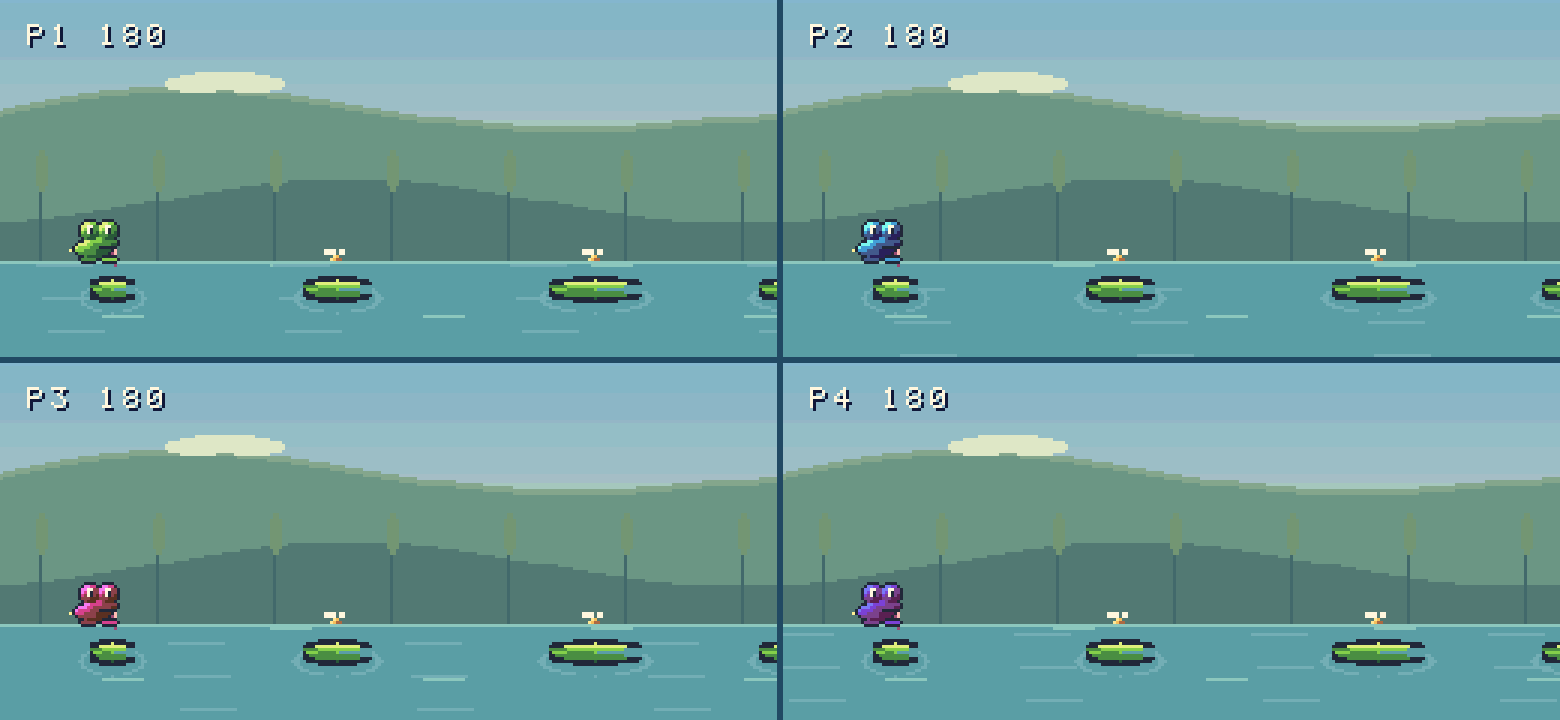
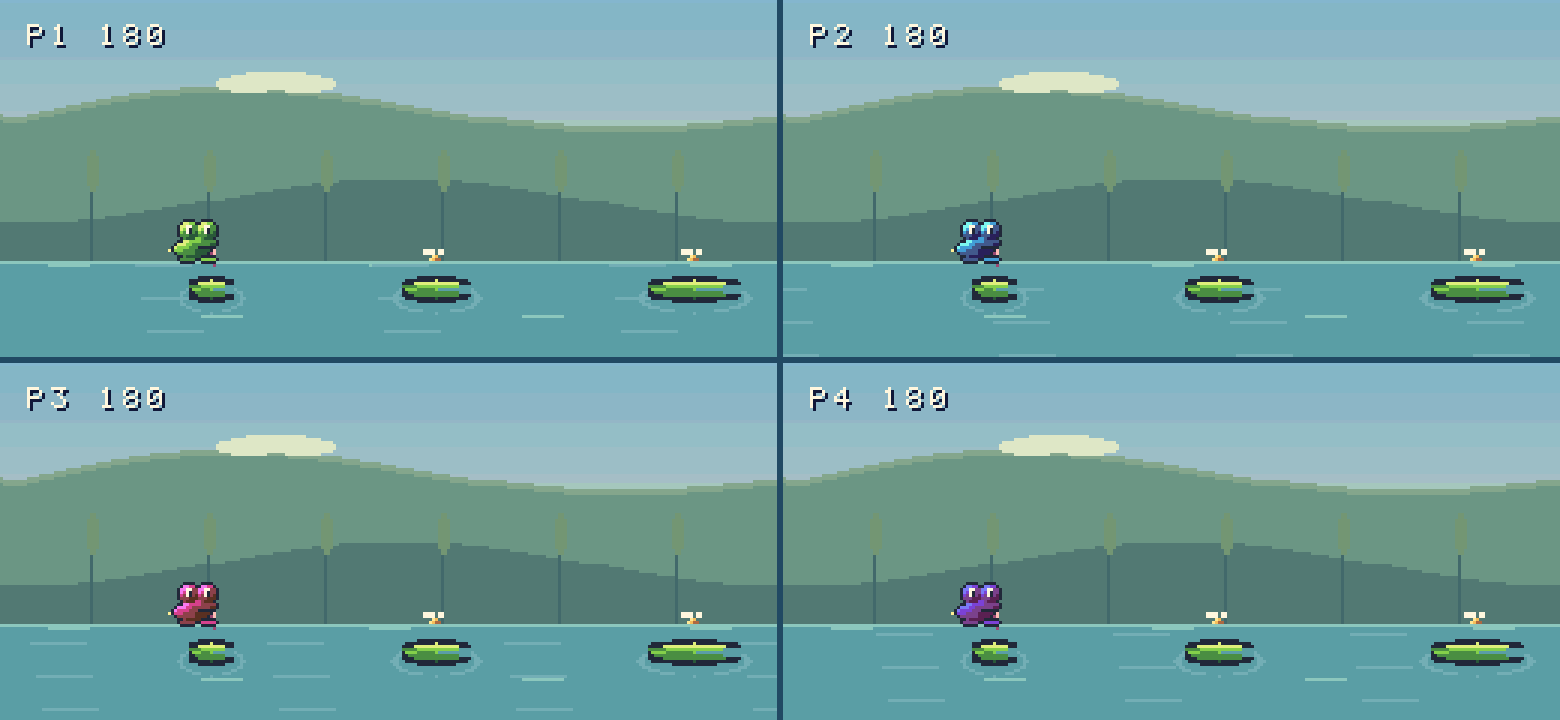
Wide view 1/3 left: frogreach
The owner's decision: in widescreen the frog sat too far left before a long empty
stretch. A third of each view's extra width is now shown behind its frog, two thirds
ahead: each camera starts view_left() px further left, WIDE_LEFT of the view's columns
past those it has at 320 (game.h: a full view 36 at 427, 67 at 520, 80 at 560; a half
view a third of its own extra columns; 0 at 320), so the frog sits that much further
right; the stage origin and the UI are unchanged (centred).
- The pond behind is drawn: the pads already crossed (two more behind the frog), the
  water and the reeds (floor divisions for a camera left of 0), and on the title the
  pond behind the first pad. The split views (2 players top/bottom, 3-4 panels) keep
  their own cameras with their own third.
- The world, the course, the physics, the scoring and the start distance are unchanged:
  the logs at 320, 427 and 520 are identical to before; 320 is byte-identical (300
  dense pictures and 4 logs compared).
- tests/wide_test.sh: the view check (--opt view=1) asserts the third on the left, the
  frog's screen x (that of 320 plus the third) and the next pad's distance on the
  screen (that of 320) at 427, 520 and 560, on the title, at the start, in a run and
  in P1's view of a 2-player game.
- Screenshots at 427 and 520 re-rendered; DESIGN.md says so.

diff --git a/games/frogreach/src/draw.c b/games/frogreach/src/draw.c
@@ -1,6 +1,7 @@
 /* Frog Reach: swamp, lily pads and tongue lines and independent split-screen cameras.
- * Widescreen (DESIGN.md "Widescreen"): a crossing seen from the side, so the swamp is revealed wider, to the right
- * (the stage origin stays 0): each camera keeps its frog where it was and shows more pads ahead, drawn with their
+ * Widescreen (DESIGN.md "Widescreen"): a crossing seen from the side, so the swamp is revealed wider: a third of each
+ * view's extra width behind its frog, two thirds ahead (the stage origin stays 0; each camera starts view_left() px
+ * further left, so the frog sits that much further right): the pads behind are drawn, the pads ahead with their
  * flies as far as the view goes (the same course: perch_pos). The views split the whole width (2 players: top and
  * bottom, 3: a top half and two lower panels, 4: quadrants); a panel is compact (the 16-px frog, the half zoom) when it
  * is narrower than 3/4 of the screen, as at 320. The scenery maps are 128 tiles wide: the reeds' panorama goes on
@@ -72,6 +73,10 @@ static int fit_col(int ux,int cols,int n) {
 static int compact(const rs_viewport *vp) { return vp->w*RS_SCREEN_W<240*rs_screen_width(); }
 static int zoom_x(const rs_viewport *vp) { return compact(vp)?128:256; }
 static int zoom_y(const rs_viewport *vp) { return vp->h<200?128:256; }
+/* widescreen: the columns a view shows behind its frog, a third of its extra width (its width less the one it has at
+ * 320: 320 for a full view, 159 for a half); 0 at 320 */
+static int view_left(const rs_viewport *vp) { return WIDE_LEFT(vp->w-vp->w*RS_SCREEN_W/rs_screen_width()); }
+static int p1_drawn_x=-999,p1_view_left;   /* tests (draw_view_log): P1's sprite centre on the screen, as drawn */
 static int sx(const view *v,const rs_viewport *vp,int x) { return (x-v->cx)*zoom_x(vp)/256; }
 static int sy(const view *v,const rs_viewport *vp,int y) { return (y-v->cy)*zoom_y(vp)/256; }
 static void spr(int id,int x,int y,int prio,int pal,const rs_viewport *vp) {
@@ -86,7 +91,7 @@ static int hero_frame(const hero *h,int t) {
  return SPR_HERO_IDLE+(t/8)%2;
 }
 static void background(const view *v,rs_viewport *vp) {
- int xoff=v->cx/4,fx=floor8(xoff),dx=xoff-fx*8;
+ int xoff=v->cx>=0?v->cx/4:-((3-v->cx)/4),fx=floor8(xoff),dx=xoff-fx*8;
  int cols=(vp->w+dx+7)/8,rows=(vp->h+7)/8;
  for(int r=0;r<rows;r++) for(int c=0;c<cols;c++) {
   int yy=floor8(r*8-(sy(v,vp,180)-64));
@@ -125,7 +130,8 @@ static void web(const world *w,int player,const view *v,const rs_viewport *vp,in
   else if(y%17==3 && (wx-w->t/7-y*3)%107<14)color=10;
   pixel(pixels,x,y,color,vp);
  }
- for(int id=h->anchor-1;id<=h->anchor+3 || (id<=h->anchor+16 && pad_seen(w,id,v,vp));id++)if(id>=0){
+ /* widescreen: the pads behind the frog too, as far as the view shows them (pixel() clips) */
+ for(int id=h->anchor-1-(view_left(vp)?2:0);id<=h->anchor+3 || (id<=h->anchor+16 && pad_seen(w,id,v,vp));id++)if(id>=0){
   int x,width;perch_pos(w,id,w->t,&x,&width);int cx=sx(v,vp,x),cy=sy(v,vp,192)+3,rx=width*zoom_x(vp)/512,ry=small?3:width>=56?5:4;
   if(rx<5)rx=5;
   for(int yy=-ry-2;yy<=ry+2;yy++)for(int xx=-rx-5;xx<=rx+5;xx++){
@@ -161,7 +167,9 @@ static void web(const world *w,int player,const view *v,const rs_viewport *vp,in
 static void scene(const world *w,int p,int t,const view *v,const rs_viewport *vp) {
  const hero *h=&w->h[p];int small=compact(vp);
  int x=sx(v,vp,(int)(h->wx>>16)),y=sy(v,vp,h->y>>16);
+ int n=rs_oam_next();
  spr(small?SPR_HERO_ICON:hero_frame(h,w->t),x-(small?8:16),y-(small?15:30),2,ppal(p),vp);
+ if(p==0)p1_drawn_x=rs_oam_next()>n?vp->x+rs_screen_origin_x()+rs_oam(n)->x+(small?8:16):-999;
  if(h->smooth_t>0)hu_sparkle(x-(small?10:20)-hu_ui_x(),y-(small?8:17),w->t,2);   /* kit sprites: UI coordinates */
  for(int a=h->anchor+1;a<=h->anchor+3 || (a<=h->anchor+16 && pad_seen(w,a,v,vp));a++){
   int pad_x,width;perch_pos(w,a,w->t,&pad_x,&width);
@@ -193,7 +201,8 @@ void draw_frame(const world *w,int state,int st_t,int best,int new_best,int paus
   /* the UI layer's columns of the view (view_ux; the scenery layers need up to 71 columns per view: the right-hand
    * views' at 64 on a wide screen, 32 at 320) */
   int ux=view_ux(vp);
-  int cx=(int)(h->wx>>16)-(compact(vp)?32:56)*256/zoom_x(vp);
+  int cx=(int)(h->wx>>16)-((compact(vp)?32:56)+view_left(vp))*256/zoom_x(vp);   /* widescreen: a third behind */
+  if(p==0)p1_view_left=view_left(vp);
   int cy=192-(vp->h>=200?196:vp->h-26)*256/zoom_y(vp);
   /* Title and gameplay use the same camera and the same world positions. */
   if(fresh || !paused){v->cx=cx;v->cy=cy;}
@@ -257,6 +266,14 @@ void draw_frame(const world *w,int state,int st_t,int best,int new_best,int paus
   rs_viewports(0,NULL,0);
  } else rs_viewports(nviews,VP,RS_HEX(0x254f62));
  shown_state=state;shown_best=best;
+}
+/* Tests (--opt view=1, main.c at exit): P1's view of the last frame, "view: width=W left=L p1_x=X next_x=N": L the
+ * columns shown behind the frog (a third of the view's extra width), X the screen x of P1's sprite centre as drawn, N
+ * the screen x of the next pad's centre (tests/wide_test.sh: X and N - X against 320) */
+void draw_view_log(const world *w) {
+ const hero *h=&w->h[0];int x,width;perch_pos(w,h->anchor+1,w->t,&x,&width);
+ rs_log("view: width=%d left=%d p1_x=%d next_x=%d",rs_screen_width(),p1_view_left,p1_drawn_x,
+        VP[0].x+rs_screen_origin_x()+sx(&V[0],&VP[0],x));
 }
 #define S(v) rs_state_var("draw." #v,&(v),sizeof(v))
 void draw_state(void) { S(V);S(VP);S(nviews);S(shown_state);S(shown_best);S(laid_w);RS_STATE_RASTER(raster); }

diff --git a/games/frogreach/src/game.h b/games/frogreach/src/game.h
@@ -9,6 +9,12 @@
 #define RETRY_LOCK 36
 #define BOT_START 20
 #define MEDAL_SCORES {100,250,500,1000}
+/* Widescreen (DESIGN.md "Widescreen"): the share of the extra width of a view (its columns past those it has at 320)
+ * shown BEHIND its frog, on the left: one third (the owner's decision), the other two thirds ahead. WIDE_LEFT(extra)
+ * rounds it: 36 px on a 427-px view, 67 at 520, 80 at 560, 0 at 320. */
+#define WIDE_LEFT_NUM 1
+#define WIDE_LEFT_DEN 3
+#define WIDE_LEFT(extra) (((extra)*WIDE_LEFT_NUM*2+WIDE_LEFT_DEN)/(2*WIDE_LEFT_DEN))
 enum hero_state { HS_READY,HS_RUN,HS_HIT,HS_DOWN,HS_OFF };
 enum { MODE_WAIT,MODE_CHARGE,MODE_LEAP };
 enum { EV_JUMP=1,EV_SCORE=2,EV_HIT=4,EV_LAND=8,EV_START=16,EV_APPLE=32 };
@@ -35,6 +41,7 @@ void draw_init(void);
 void draw_frame(const world *w,int state,int st_t,int best,int new_best,int paused);
 void draw_state(void);
 void draw_relayout(void);   /* after a state of another width was loaded: this width's maps (widescreen) */
+void draw_view_log(const world *w);   /* tests (--opt view=1): the view at exit, "view: width= left= p1_x= next_x=" */
 enum { SFX_JUMP,SFX_SCORE,SFX_HIT,SFX_LAND,SFX_COUNT };
 #define SFX_HOUSE SFX_COUNT
 #endif

diff --git a/games/frogreach/src/main.c b/games/frogreach/src/main.c
@@ -12,6 +12,7 @@
  *   seed=N         a fixed course (default: from the frame of the first press)
  *   players=N      start with N players joined (1..4);  ready=1  skip the title (the run waits for a press)
  *   dump=1         log the final state at exit (tests); music=0, sound=0
+ *   view=1         log the view at exit (tests/wide_test.sh: widescreen, a third of the extra width behind)
  */
 #include "game.h"
 #include "assets.h"
@@ -249,6 +250,7 @@ static void game_init(void)
 
 static void game_shutdown(void)
 {
+    if (rs_option_int("view", 0)) draw_view_log(&W);      /* tests/wide_test.sh: the view (widescreen) */
     if (!rs_option_int("dump", 0)) return;
     char sc[48] = "", hs[48] = "";
     for (int p = 0; p < W.players; p++) {

diff --git a/games/frogreach/DESIGN.md b/games/frogreach/DESIGN.md
@@ -48,14 +48,21 @@ Code MIT; art, music, sound and design CC BY-NC-SA 4.0, as stated in LICENSE.
 ## Widescreen (docs/spec.md "Widescreen")
 
 The game opts in (`max_width` = 560, `WIDESCREEN_frogreach = 1`): 320 x 240 is unchanged pixel for pixel; at 427
-(16:9), 520 or 560 (phones) **the swamp is revealed wider, to the right**: a crossing seen from the side, so the
-stage origin stays 0. Each camera keeps its frog where it was and shows more of the pond ahead; seeing further makes
-it a little easier, which the owner accepts (no compensation).
+(16:9), 520 or 560 (phones) **the swamp is revealed wider: a third of the extra width behind the frog, two thirds
+ahead** (the owner's decision: with all of it ahead the frog sat too far left before a long empty stretch). A crossing
+seen from the side: the stage origin stays 0 and each camera starts a third of its view's extra width further left
+(`WIDE_LEFT`, game.h; a full view: 36 px at 427, 67 at 520, 80 at 560, 0 at 320; a half view a third of its own extra
+columns), so the frog sits that much further right and sees the rest ahead; seeing further makes it a little easier,
+which the owner accepts (no compensation). Behind it the pond is drawn like the rest: the pads already crossed, the
+water and the reeds, and before the start (the title too) the pond behind the first pad.
 - **The same course**: the pads beyond the third ahead are drawn, with their flies, as long as the view still shows
   them (perch_pos: the course never looked at the screen); the rules, the timings and the bot are unchanged.
   tests/wide_test.sh compares the whole logs (scores, game overs, the final state and its hash) of 1-player and
   4-player bot runs at 320, 427, 520 and 560. The start of a run is the same too: the first pads sit at the same
-  distance from the frog as at 320 (a wider screen shows them from the first frame), no longer run-up.
+  distance from the frog as at 320 (a wider screen shows them from the first frame), no longer run-up. Its view
+  check (`--opt view=1` logs the view at exit) asserts the third on the left, the frog's screen x (that of 320 plus the
+  third) and the next pad's distance on the screen (that of 320), on the title, at the start, in a run and in P1's
+  view of a 2-player game.
 - **Multiplayer**: the views split the whole width (2 players: top and bottom, 3: a top half and two lower panels, 4:
   quadrants). A panel is compact (the 16-px frog, the half zoom) when it is narrower than 3/4 of the screen, as at 320,
   so a 520-px quadrant keeps the compact frog and simply shows more of its pond. The right-hand views use map columns
